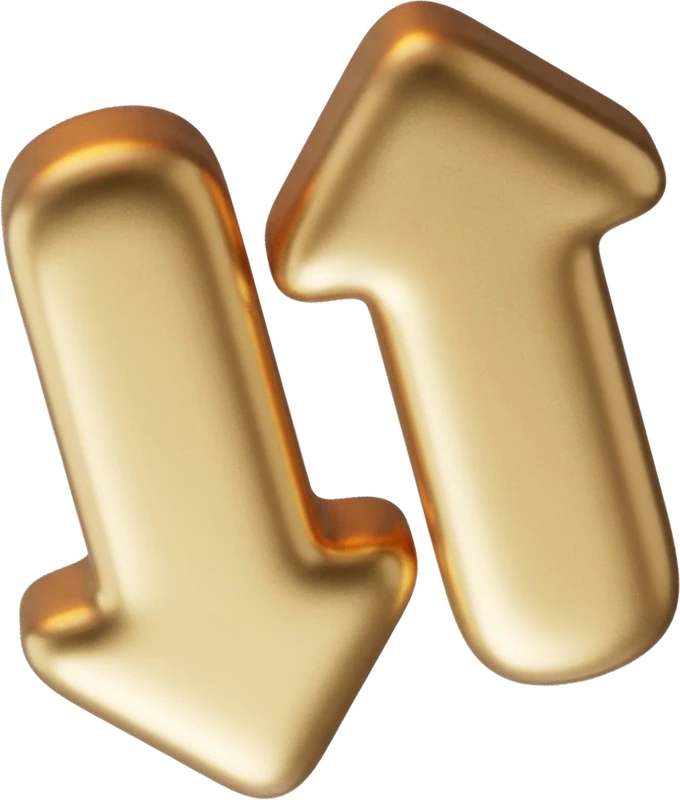
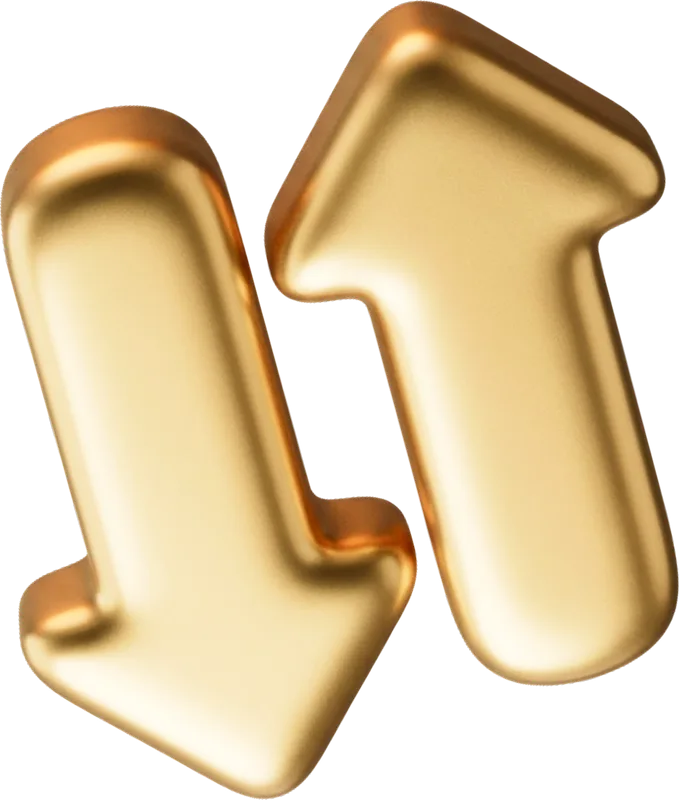
chore(states): regenerate the Activity empty-state render from the new master

diff --git a/src/components/states/StateIllustration.tsx b/src/components/states/StateIllustration.tsx
@@ -32,7 +32,7 @@ const RENDERS: Partial<Record<StateIllustrationId, { w: number; h: number; show:
   // Saved people and billers share the group figures.
   "empty-people": { w: 800, h: 718, show: 170, file: "empty-groups" },
   "empty-sources": { w: 800, h: 734, show: 170 },
-  "empty-activity": { w: 680, h: 800, show: 176 },
+  "empty-activity": { w: 679, h: 800, show: 176 },
   "empty-spends": { w: 518, h: 800, show: 176 },
 };
 
